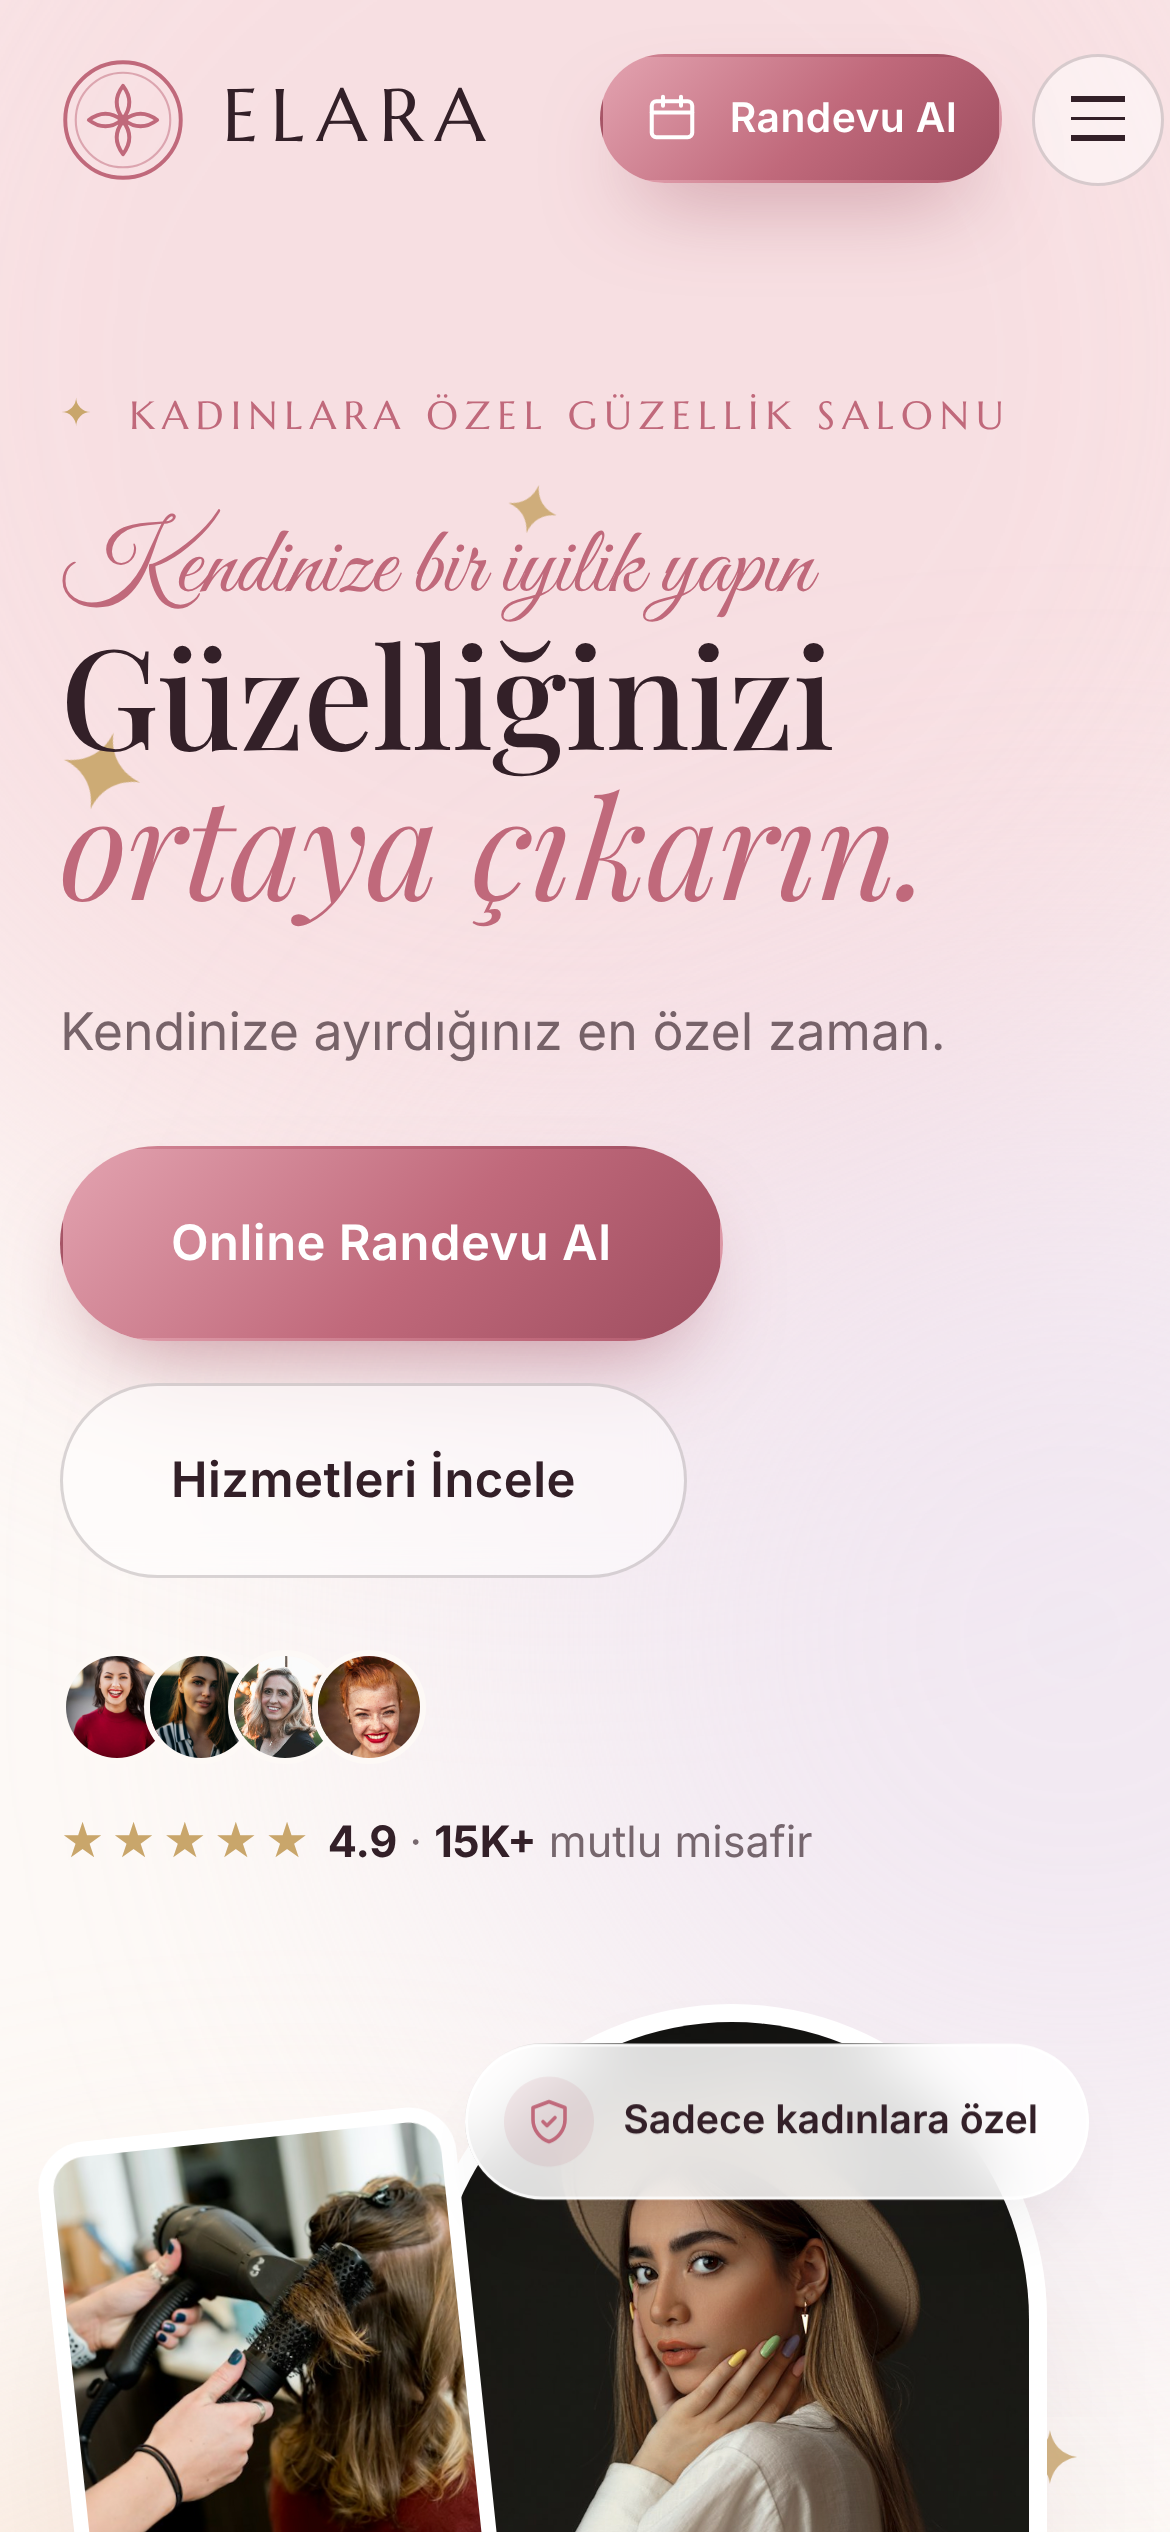
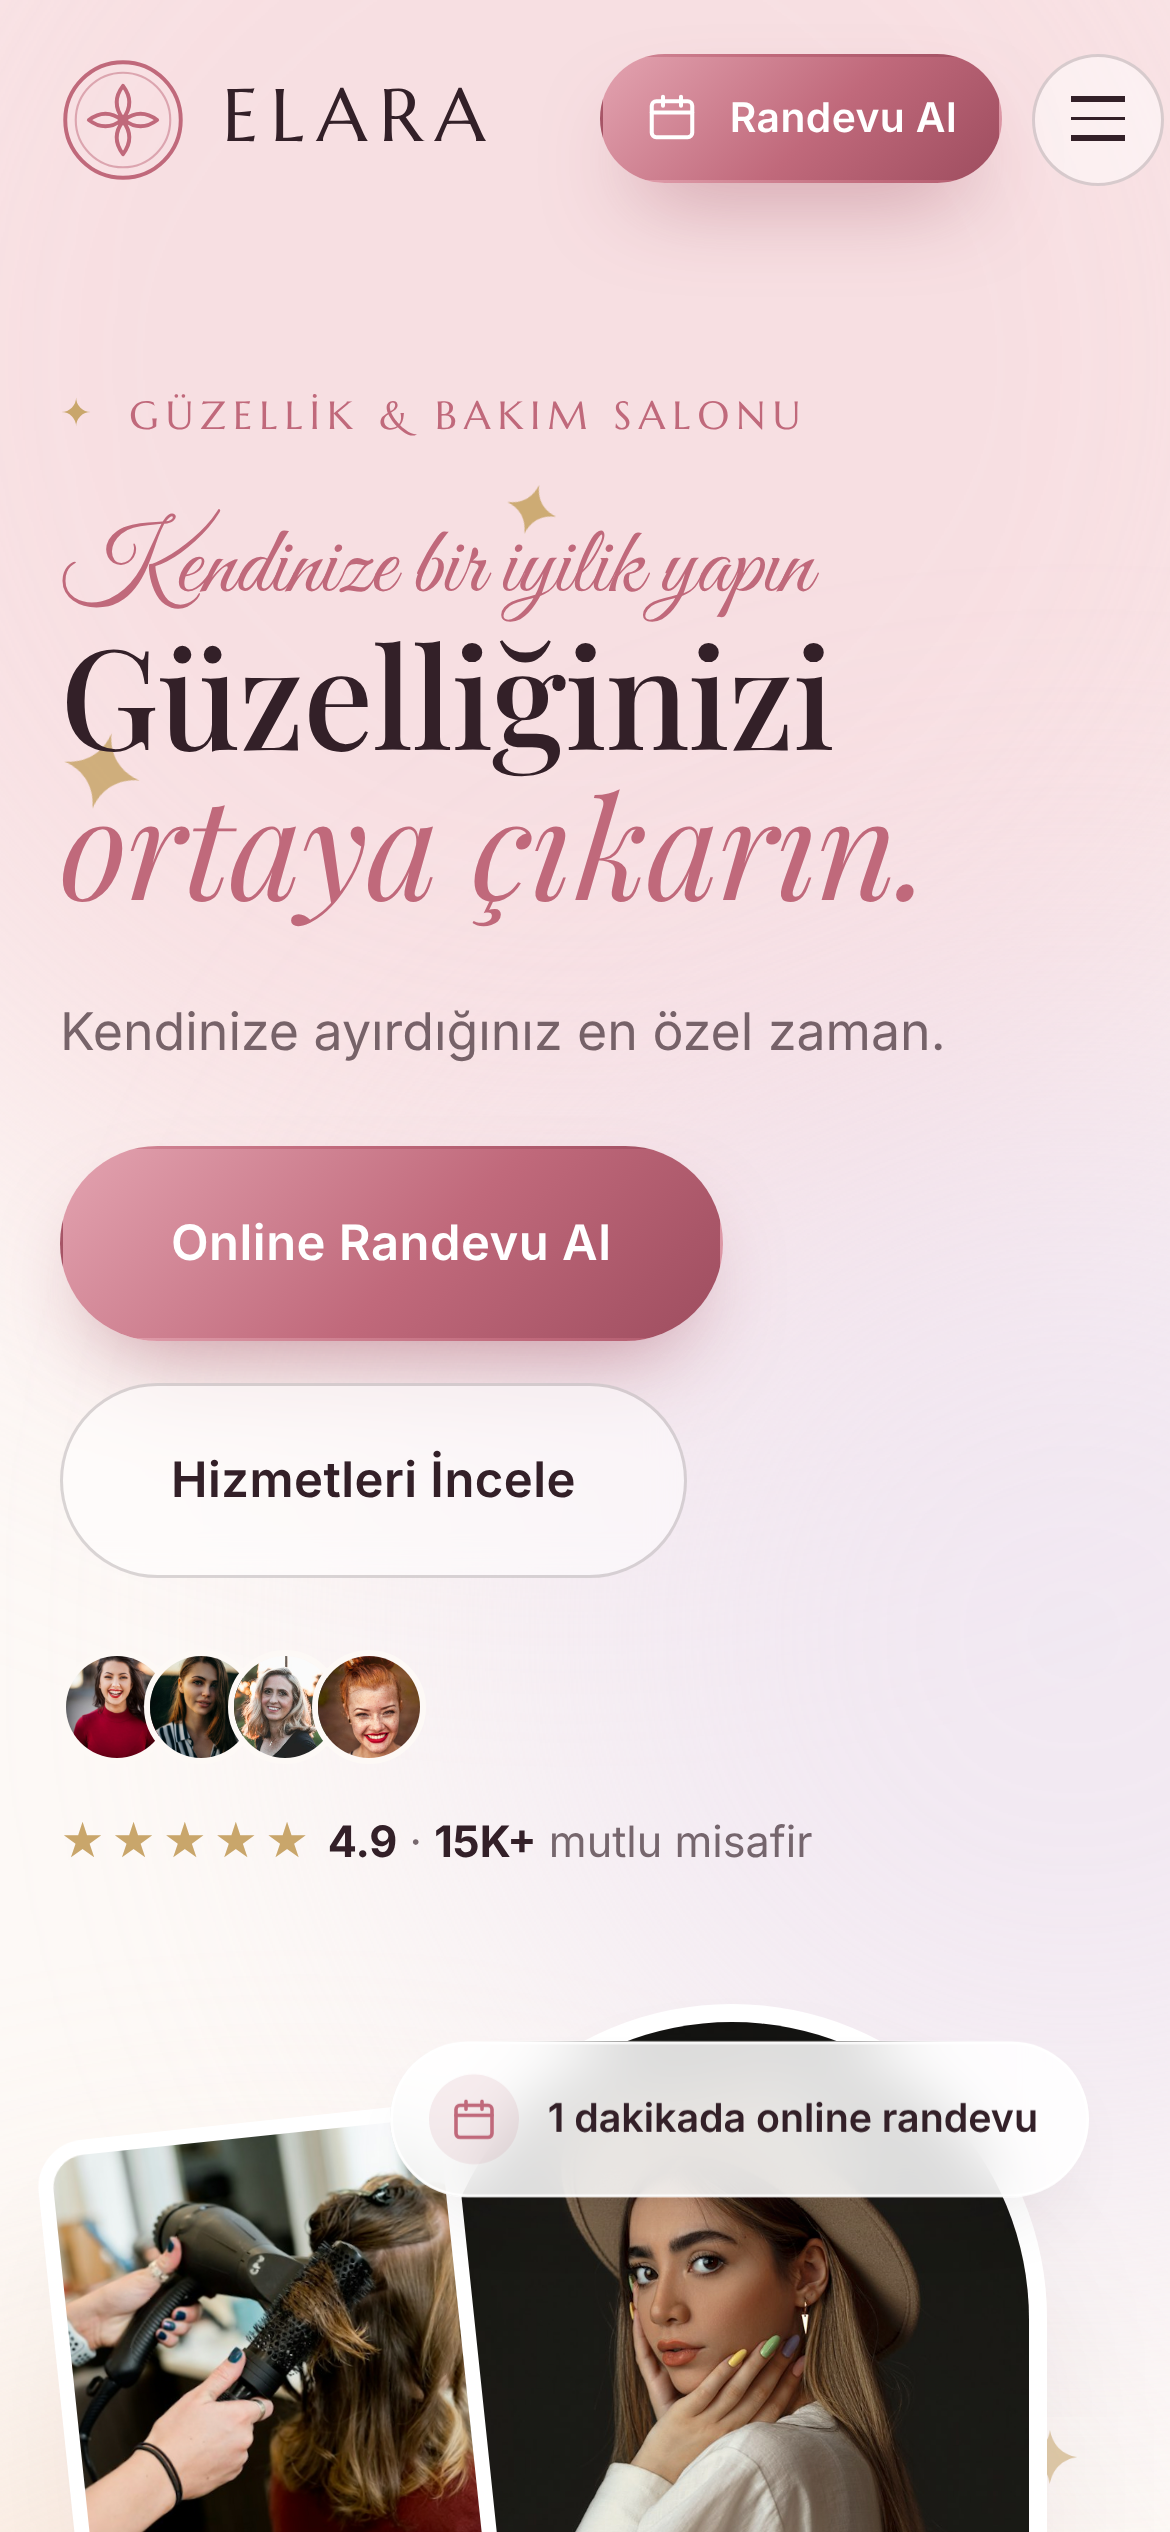
"Kadınlara özel" vurgusunu metinlerden ve story görselinden kaldır
Claude-Session: https://claude.ai/code/session_0144TnrRoZ7u1UzS9q1c3jey

diff --git a/index.html b/index.html
@@ -4,10 +4,10 @@
   <meta charset="UTF-8">
   <meta name="viewport" content="width=device-width, initial-scale=1.0">
   <title>{{brand}} — Saç, Cilt, Tırnak & Makyaj</title>
-  <meta name="description" content="Kadınlara özel güzellik salonu. Saç tasarımı, balyaj, keratin bakımı, manikür & pedikür, cilt bakımı, kaş & kirpik, makyaj ve gelin paketi. Online randevu alın.">
+  <meta name="description" content="Güzellik ve bakım salonu. Saç tasarımı, balyaj, keratin bakımı, manikür & pedikür, cilt bakımı, kaş & kirpik, makyaj ve gelin paketi. Online randevu alın.">
   <meta name="theme-color" content="#fdf9f6">
   <meta property="og:title" content="ELARA Güzellik & Bakım Salonu">
-  <meta property="og:description" content="Kendinize ayırdığınız en özel zaman. Kadınlara özel güzellik salonu, online randevu alın.">
+  <meta property="og:description" content="Kendinize ayırdığınız en özel zaman. Güzellik ve bakım salonu, online randevu alın.">
   <meta property="og:type" content="website">
   <link rel="icon" href="assets/img/favicon.svg" type="image/svg+xml">
   <link rel="preconnect" href="https://fonts.googleapis.com">
@@ -26,7 +26,7 @@
     <span class="sparkle d3" style="right:8%;bottom:26%;width:18px;height:18px"><svg viewBox="0 0 24 24" fill="currentColor"><path d="M12 0c1 6.5 5.5 11 12 12-6.5 1-11 5.5-12 12-1-6.5-5.5-11-12-12 6.5-1 11-5.5 12-12Z"/></svg></span>
     <div class="container hero-grid">
       <div class="hero-content">
-        <span class="eyebrow reveal in">Kadınlara Özel Güzellik Salonu</span>
+        <span class="eyebrow reveal in">Güzellik & Bakım Salonu</span>
         <div class="reveal in" data-delay="1">
           <div class="hero-script">Kendinize bir iyilik yapın</div>
           <h1>Güzelliğinizi <em class="accent">ortaya çıkarın.</em></h1>
@@ -45,7 +45,7 @@
         <div class="hero-arch"><img id="hero-img" src="" alt="Salon misafiri"></div>
         <div class="hero-card one"><img id="hero-card1" src="" alt="Fön ve şekillendirme"></div>
         <div class="hero-card two"><img id="hero-card2" src="" alt="Tırnak tasarımı"></div>
-        <span class="pill-badge b"><i><svg viewBox="0 0 24 24" fill="none" stroke="currentColor" stroke-width="1.8" stroke-linecap="round" stroke-linejoin="round"><path d="M12 2 4 5v6c0 5 3.5 9.5 8 11 4.5-1.5 8-6 8-11V5Z"/><path d="m9 12 2 2 4-4"/></svg></i>Sadece kadınlara özel</span>
+        <span class="pill-badge b"><i><svg viewBox="0 0 24 24" fill="none" stroke="currentColor" stroke-width="1.8" stroke-linecap="round" stroke-linejoin="round"><rect x="3" y="5" width="18" height="16" rx="2"/><path d="M3 10h18M8 3v4M16 3v4"/></svg></i>1 dakikada online randevu</span>
         <span class="pill-badge a"><i><svg viewBox="0 0 24 24" fill="none" stroke="currentColor" stroke-width="1.8" stroke-linecap="round" stroke-linejoin="round"><circle cx="12" cy="12" r="9"/><path d="M12 7v5l3 2"/></svg></i><span id="hero-hours"></span></span>
       </div>
     </div>
@@ -100,7 +100,7 @@
         <svg class="ring" viewBox="0 0 136 136" aria-hidden="true">
           <defs><path id="ring2" d="M68,68 m-52,0 a52,52 0 1,1 104,0 a52,52 0 1,1 -104,0"/></defs>
           <circle cx="68" cy="68" r="66" fill="#fff"/>
-          <text><textPath href="#ring2">SINCE <tspan id="since-year"></tspan> • KADINLARA ÖZEL • </textPath></text>
+          <text><textPath href="#ring2">SINCE <tspan id="since-year"></tspan> • GÜZELLİK & BAKIM • </textPath></text>
           <path d="M68 50c3.5 4.5 3.5 9 0 13.5-3.5-4.5-3.5-9 0-13.5ZM68 86c3.5-4.5 3.5-9 0-13.5-3.5 4.5-3.5 9 0 13.5ZM50 68c4.5-3.5 9-3.5 13.5 0-4.5 3.5-9 3.5-13.5 0ZM86 68c-4.5-3.5-9-3.5-13.5 0 4.5 3.5 9 3.5 13.5 0Z" fill="none" stroke="#c0697b" stroke-width="1.4" stroke-linejoin="round"/>
         </svg>
       </div>
@@ -112,7 +112,7 @@
           <div class="feature"><i><svg viewBox="0 0 24 24" fill="none" stroke="currentColor" stroke-width="1.8"><path d="M12 2 4 5v6c0 5 3.5 9.5 8 11 4.5-1.5 8-6 8-11V5Z"/><path d="m9 12 2 2 4-4"/></svg></i><div><b>Hijyen Garantisi</b><span>Her misafir için steril ekipman ve tek kullanımlık malzeme.</span></div></div>
           <div class="feature"><i><svg viewBox="0 0 24 24" fill="none" stroke="currentColor" stroke-width="1.8"><circle cx="12" cy="12" r="9"/><path d="M12 7v5l3 2"/></svg></i><div><b>Zamanında Hizmet</b><span>Randevu saatinize sadık kalırız, bekletmeyiz.</span></div></div>
           <div class="feature"><i><svg viewBox="0 0 24 24" fill="none" stroke="currentColor" stroke-width="1.8"><path d="m3 8 4 4 5-7 5 7 4-4-2 11H5Z"/><path d="M5 21h14"/></svg></i><div><b>Premium Ürünler</b><span>Saçınızı ve cildinizi yıpratmayan profesyonel markalar.</span></div></div>
-          <div class="feature"><i><svg viewBox="0 0 24 24" fill="none" stroke="currentColor" stroke-width="1.8"><path d="M12 21c-5 0-9-4-9-8 4 0 7 2 9 5 2-3 5-5 9-5 0 4-4 8-9 8Z"/><path d="M12 13c-2-3-2-7 0-10 2 3 2 7 0 10Z"/></svg></i><div><b>Kadınlara Özel Alan</b><span>Yalnızca kadınlara hizmet veren, mahremiyetinize saygılı bir ortam.</span></div></div>
+          <div class="feature"><i><svg viewBox="0 0 24 24" fill="none" stroke="currentColor" stroke-width="1.8"><path d="M12 21c-5 0-9-4-9-8 4 0 7 2 9 5 2-3 5-5 9-5 0 4-4 8-9 8Z"/><path d="M12 13c-2-3-2-7 0-10 2 3 2 7 0 10Z"/></svg></i><div><b>Kahve & Çay İkramı</b><span>Sakin, ferah ve mahremiyetinize saygılı bir ortamda keyifli bir mola.</span></div></div>
         </div>
         <div class="signature reveal" data-delay="3"><span class="script" id="founder-name"></span><small>Kurucu</small></div>
         <div class="reveal" data-delay="3"><a class="btn btn-gold" href="randevu.html">Randevu Oluştur</a></div>

diff --git a/assets/js/config.js b/assets/js/config.js
@@ -13,7 +13,7 @@ window.SITE_CONFIG = {
     since: 2014,
     tagline: "Kendinize ayırdığınız en özel zaman.",
     description:
-      "Yalnızca kadınlara hizmet veren salonumuzda saç tasarımından cilt bakımına, " +
+      "Salonumuzda saç tasarımından cilt bakımına, " +
       "tırnak sanatından gelin hazırlığına kadar her detayı sizin için özenle planlıyoruz. " +
       "Amacımız sadece güzel görünmeniz değil, kendinizi iyi hissederek ayrılmanız.",
   },
@@ -129,7 +129,7 @@ window.SITE_CONFIG = {
   reviews: [
     { name: "Ayşe K.", text: "Balyajımı Selin Hanım yaptı, tam istediğim ton. Saçım hiç yıpranmadı, üstelik randevuya zamanında alındım. Artık başka yere gitmiyorum.", rating: 5 },
     { name: "Zeynep T.", text: "Düğünümde gelin paketini aldım; deneme gününden itibaren her şey çok profesyoneldi. Makyajım gece boyunca bozulmadı.", rating: 5 },
-    { name: "Elif M.", text: "Cilt bakımından sonra cildim resmen nefes aldı. Salon çok ferah ve temiz, kadınlara özel olması da beni rahat hissettiriyor.", rating: 5 },
+    { name: "Elif M.", text: "Cilt bakımından sonra cildim resmen nefes aldı. Salon çok ferah ve temiz, kahve ikramıyla kendimi evimde gibi hissediyorum.", rating: 5 },
   ],
 
   /* -----------------------------------------------------------------------

diff --git a/assets/js/main.js b/assets/js/main.js
@@ -123,7 +123,7 @@
             </div>
           </div>
           <div class="footer-bottom">
-            <span>© <span id="year"></span> ${esc(CFG.brand.name)} ${esc(CFG.brand.subtitle)}. Kadınlara özel hizmet verilir. Tüm hakları saklıdır.</span>
+            <span>© <span id="year"></span> ${esc(CFG.brand.name)} ${esc(CFG.brand.subtitle)}. Tüm hakları saklıdır.</span>
             <span><a href="yonetim.html" style="opacity:.6">Yönetim</a> · Tasarım &amp; Geliştirme: <a href="https://github.com/rebirthsoftware-code" target="_blank" rel="noopener">rebirthsoftware</a></span>
           </div>
         </div>

diff --git a/README.md b/README.md
@@ -1,4 +1,4 @@
-# ELARA — Kadınlara Özel Güzellik Salonu Web Sitesi & Randevu Sistemi
+# ELARA — Güzellik Salonu Web Sitesi & Randevu Sistemi
 
 Güzellik salonları için tasarlanmış, **GitHub Pages üzerinde ücretsiz çalışan**
 web sitesi ve online randevu sistemi. Sunucu, veritabanı ya da hosting gerektirmez;
